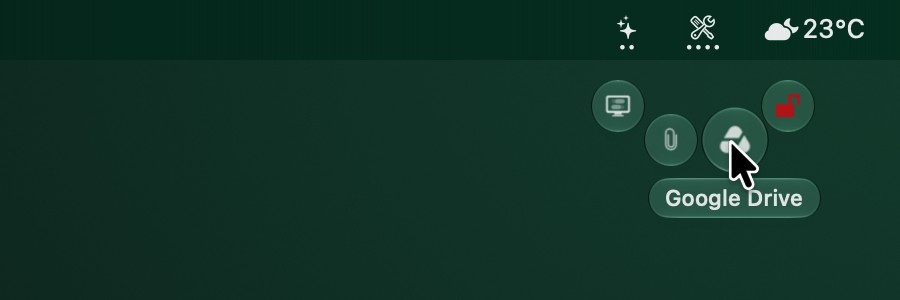
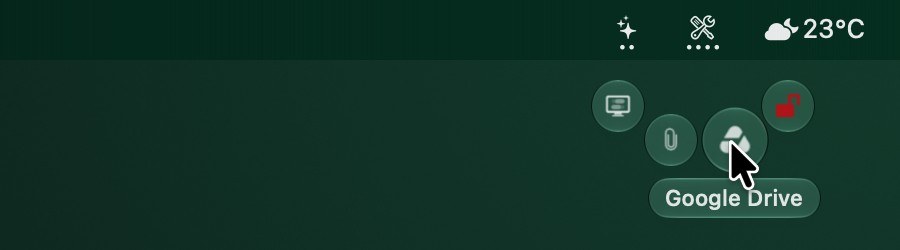
Website update

diff --git a/docs/vi/index.html b/docs/vi/index.html
@@ -188,8 +188,8 @@ summary{user-select:none}
 .stat b{display:block;margin-bottom:4px}@media (min-width:821px){.pain{display:grid;grid-row:span 3;grid-template-rows:subgrid;row-gap:0;align-content:start}.stats .pain .q{display:flex;flex-direction:column;justify-content:center}}.pain .q{display:block;font-size:17px;font-style:italic;color:var(--text);line-height:1.45;padding-bottom:14px;margin-bottom:14px;border-bottom:1px solid var(--line)}.pain b{color:var(--leaf);font-size:18px}.stat span{color:var(--sub);font-size:15px}
 .sechead{text-align:center;max-width:720px;margin:0 auto 48px}.sechead .lead{margin:0 auto}
 .wn{padding-top:8px}
-.wn-box{padding:36px;border:1px solid #2fd39f40;border-radius:20px;background:linear-gradient(135deg,#2fd39f14,#0c231cb3 60%)}
-.wn-t{display:grid;grid-template-columns:1.1fr 1fr;gap:16px 48px;align-items:end;margin-bottom:28px}
+.wn-box{display:grid;grid-template-columns:1fr 1.15fr;gap:48px;align-items:center;padding:36px;border:1px solid #2fd39f40;border-radius:20px;background:linear-gradient(135deg,#2fd39f14,#0c231cb3 60%)}
+.wn-t ul{margin-top:4px}
 .wn h2{font-size:clamp(26px,3.2vw,36px);line-height:1.15;letter-spacing:-.01em;margin:10px 0 12px;text-wrap:balance}.wn h2 span{color:var(--leaf)}
 .wn p{color:var(--sub);font-size:17px;margin:0 0 14px}
 .wn ul{list-style:none;padding:0;margin:0 0 16px}.wn li{display:flex;gap:10px;align-items:flex-start;color:var(--sub);padding:4px 0}.wn li svg{flex:none;margin-top:4px;color:var(--leaf)}
@@ -198,10 +198,10 @@ summary{user-select:none}
 .wn figure{margin:0 0 18px}.wn figure:last-child{margin:0}
 .wn figcaption{font-size:12px;font-weight:600;letter-spacing:.08em;text-transform:uppercase;color:var(--sub);margin:0 0 8px}
 .wn figure.after figcaption{color:var(--leaf)}
-.wn-i figure,.wn-i figure:last-child{max-width:560px;margin-left:auto}
+.wn-i figure{margin:0 0 16px}.wn-i figure:last-child{margin:0}
 .wn figure div{overflow:hidden;border-radius:12px;border:1px solid var(--line);box-shadow:0 20px 50px #0008}
 .wn figure img{display:block;width:100%;height:auto}
-@media (max-width:820px){.wn-box{padding:22px}.wn-t{grid-template-columns:1fr;gap:0}}
+@media (max-width:820px){.wn-box{padding:22px;grid-template-columns:1fr;gap:28px}}
 .fx{display:grid;grid-template-columns:1fr 1.25fr;gap:56px;align-items:center;padding:44px 0;border-top:1px solid #ffffff0d}
 .fx:first-of-type{border-top:0}
 .fx.flip .fx-t{order:2}
@@ -271,11 +271,11 @@ summary{user-select:none}
 
 <section id="moi" class="wn">
   <div class="wn-box">
-    <div class="wn-t"><div><span class="tag">Mới trong bản 0.6.0</span><h2>Gom icon, gọn menu</h2><p>Mintbar gom các icon trên menu bar vào nhóm. Cần app nào, bấm là thấy.</p></div><div><ul><li><svg viewBox="0 0 24 24" width="16" height="16" fill="none" stroke="currentColor" stroke-width="1.75" stroke-linecap="round" stroke-linejoin="round" aria-hidden="true"><path d="M20 6 9 17l-5-5"/></svg><span><b>Hết lo tai thỏ.</b> Gom bớt icon, menu bar lại đủ chỗ.</span></li><li><svg viewBox="0 0 24 24" width="16" height="16" fill="none" stroke="currentColor" stroke-width="1.75" stroke-linecap="round" stroke-linejoin="round" aria-hidden="true"><path d="M20 6 9 17l-5-5"/></svg><span><b>Bấm là mở.</b> Bấm icon nhóm, các app mở ra ngay dưới menu bar.</span></li><li><svg viewBox="0 0 24 24" width="16" height="16" fill="none" stroke="currentColor" stroke-width="1.75" stroke-linecap="round" stroke-linejoin="round" aria-hidden="true"><path d="M20 6 9 17l-5-5"/></svg><span><b>Nhóm theo việc.</b> Mỗi nhóm một tên, tìm app là thấy.</span></li></ul><div class="wn-links"><a href="mintbar-gon-thanh-menu-mac/">Cách dùng Mintbar <span class="arr r">→</span></a></div><p class="also">2 nhóm, mỗi nhóm 4 app. Bật thì macOS mới hỏi quyền.</p></div></div>
+    <div class="wn-t"><span class="tag">Mới trong bản 0.6.0</span><h2>Gom icon, gọn menu</h2><p>Mintbar gom các icon trên menu bar vào nhóm. Cần app nào, bấm là thấy.</p><ul><li><svg viewBox="0 0 24 24" width="16" height="16" fill="none" stroke="currentColor" stroke-width="1.75" stroke-linecap="round" stroke-linejoin="round" aria-hidden="true"><path d="M20 6 9 17l-5-5"/></svg><span><b>Hết lo tai thỏ.</b> Gom bớt icon, menu bar lại đủ chỗ.</span></li><li><svg viewBox="0 0 24 24" width="16" height="16" fill="none" stroke="currentColor" stroke-width="1.75" stroke-linecap="round" stroke-linejoin="round" aria-hidden="true"><path d="M20 6 9 17l-5-5"/></svg><span><b>Bấm là mở.</b> Bấm icon nhóm, các app mở ra ngay dưới menu bar.</span></li><li><svg viewBox="0 0 24 24" width="16" height="16" fill="none" stroke="currentColor" stroke-width="1.75" stroke-linecap="round" stroke-linejoin="round" aria-hidden="true"><path d="M20 6 9 17l-5-5"/></svg><span><b>Nhóm theo việc.</b> Mỗi nhóm một tên, tìm app là thấy.</span></li></ul><div class="wn-links"><a href="mintbar-gon-thanh-menu-mac/">Cách dùng Mintbar <span class="arr r">→</span></a></div><p class="also">2 nhóm, mỗi nhóm 4 app. Bật thì macOS mới hỏi quyền.</p></div>
     <div class="wn-i">
-      <figure><figcaption>Trước</figcaption><div><img src="../mintbar-before.jpg?v=dce254e8" alt="Menu bar trên Mac chật kín icon app trước khi dùng Mintbar" width="900" height="60" loading="lazy"></div></figure>
-      <figure class="after"><figcaption>Sau: gom vào hai nhóm</figcaption><div><img src="../mintbar-after.jpg?v=e5a27353" alt="Cùng menu bar khi bật Mintbar: các app nằm sau hai icon nhóm AI và Tools" width="900" height="60" loading="lazy"></div></figure>
-      <figure class="after fan"><figcaption>Bấm icon nhóm: app mở ra ngay bên dưới</figcaption><div><img src="../mintbar-fan.jpg?v=0e83377e" alt="Bấm nhóm Tools, bốn app mở ra ngay dưới menu bar, con trỏ đang chỉ vào Google Drive" width="900" height="300" loading="lazy"></div></figure>
+      <figure><figcaption>Trước</figcaption><div><img src="../mintbar-before.jpg?v=d3800ef0" alt="Menu bar trên Mac chật kín icon app trước khi dùng Mintbar" width="900" height="60" loading="lazy"></div></figure>
+      <figure class="after"><figcaption>Sau: gom vào hai nhóm</figcaption><div><img src="../mintbar-after.jpg?v=14f1bae5" alt="Cùng menu bar khi bật Mintbar: các app nằm sau hai icon nhóm AI và Tools" width="900" height="60" loading="lazy"></div></figure>
+      <figure class="after fan"><figcaption>Bấm icon nhóm: app mở ra ngay bên dưới</figcaption><div><img src="../mintbar-fan.jpg?v=bdbac061" alt="Bấm nhóm Tools, bốn app mở ra ngay dưới menu bar, con trỏ đang chỉ vào Google Drive" width="900" height="250" loading="lazy"></div></figure>
     </div>
   </div>
 </section>

diff --git a/docs/index.html b/docs/index.html
@@ -188,8 +188,8 @@ summary{user-select:none}
 .stat b{display:block;margin-bottom:4px}@media (min-width:821px){.pain{display:grid;grid-row:span 3;grid-template-rows:subgrid;row-gap:0;align-content:start}.stats .pain .q{display:flex;flex-direction:column;justify-content:center}}.pain .q{display:block;font-size:17px;font-style:italic;color:var(--text);line-height:1.45;padding-bottom:14px;margin-bottom:14px;border-bottom:1px solid var(--line)}.pain b{color:var(--leaf);font-size:18px}.stat span{color:var(--sub);font-size:15px}
 .sechead{text-align:center;max-width:720px;margin:0 auto 48px}.sechead .lead{margin:0 auto}
 .wn{padding-top:8px}
-.wn-box{padding:36px;border:1px solid #2fd39f40;border-radius:20px;background:linear-gradient(135deg,#2fd39f14,#0c231cb3 60%)}
-.wn-t{display:grid;grid-template-columns:1.1fr 1fr;gap:16px 48px;align-items:end;margin-bottom:28px}
+.wn-box{display:grid;grid-template-columns:1fr 1.15fr;gap:48px;align-items:center;padding:36px;border:1px solid #2fd39f40;border-radius:20px;background:linear-gradient(135deg,#2fd39f14,#0c231cb3 60%)}
+.wn-t ul{margin-top:4px}
 .wn h2{font-size:clamp(26px,3.2vw,36px);line-height:1.15;letter-spacing:-.01em;margin:10px 0 12px;text-wrap:balance}.wn h2 span{color:var(--leaf)}
 .wn p{color:var(--sub);font-size:17px;margin:0 0 14px}
 .wn ul{list-style:none;padding:0;margin:0 0 16px}.wn li{display:flex;gap:10px;align-items:flex-start;color:var(--sub);padding:4px 0}.wn li svg{flex:none;margin-top:4px;color:var(--leaf)}
@@ -198,10 +198,10 @@ summary{user-select:none}
 .wn figure{margin:0 0 18px}.wn figure:last-child{margin:0}
 .wn figcaption{font-size:12px;font-weight:600;letter-spacing:.08em;text-transform:uppercase;color:var(--sub);margin:0 0 8px}
 .wn figure.after figcaption{color:var(--leaf)}
-.wn-i figure,.wn-i figure:last-child{max-width:560px;margin-left:auto}
+.wn-i figure{margin:0 0 16px}.wn-i figure:last-child{margin:0}
 .wn figure div{overflow:hidden;border-radius:12px;border:1px solid var(--line);box-shadow:0 20px 50px #0008}
 .wn figure img{display:block;width:100%;height:auto}
-@media (max-width:820px){.wn-box{padding:22px}.wn-t{grid-template-columns:1fr;gap:0}}
+@media (max-width:820px){.wn-box{padding:22px;grid-template-columns:1fr;gap:28px}}
 .fx{display:grid;grid-template-columns:1fr 1.25fr;gap:56px;align-items:center;padding:44px 0;border-top:1px solid #ffffff0d}
 .fx:first-of-type{border-top:0}
 .fx.flip .fx-t{order:2}
@@ -271,11 +271,11 @@ summary{user-select:none}
 
 <section id="new" class="wn">
   <div class="wn-box">
-    <div class="wn-t"><div><span class="tag">New in 0.6.0</span><h2>Fewer icons. Same menus.</h2><p>Mintbar gathers your menu bar icons into groups. Need an app? One click and it’s there.</p></div><div><ul><li><svg viewBox="0 0 24 24" width="16" height="16" fill="none" stroke="currentColor" stroke-width="1.75" stroke-linecap="round" stroke-linejoin="round" aria-hidden="true"><path d="M20 6 9 17l-5-5"/></svg><span><b>Notch? No problem.</b> Group a few, and everything fits.</span></li><li><svg viewBox="0 0 24 24" width="16" height="16" fill="none" stroke="currentColor" stroke-width="1.75" stroke-linecap="round" stroke-linejoin="round" aria-hidden="true"><path d="M20 6 9 17l-5-5"/></svg><span><b>Click to open.</b> Click a group, its apps open right below.</span></li><li><svg viewBox="0 0 24 24" width="16" height="16" fill="none" stroke="currentColor" stroke-width="1.75" stroke-linecap="round" stroke-linejoin="round" aria-hidden="true"><path d="M20 6 9 17l-5-5"/></svg><span><b>Grouped by task.</b> Name each group. Find any app at a glance.</span></li></ul><div class="wn-links"><a href="mintbar-tidy-menu-bar-mac/">How Mintbar works <span class="arr r">→</span></a></div><p class="also">2 groups, 4 apps each. macOS asks for permission only when you turn it on.</p></div></div>
+    <div class="wn-t"><span class="tag">New in 0.6.0</span><h2>Fewer icons. Same menus.</h2><p>Mintbar gathers your menu bar icons into groups. Need an app? One click and it’s there.</p><ul><li><svg viewBox="0 0 24 24" width="16" height="16" fill="none" stroke="currentColor" stroke-width="1.75" stroke-linecap="round" stroke-linejoin="round" aria-hidden="true"><path d="M20 6 9 17l-5-5"/></svg><span><b>Notch? No problem.</b> Group a few, and everything fits.</span></li><li><svg viewBox="0 0 24 24" width="16" height="16" fill="none" stroke="currentColor" stroke-width="1.75" stroke-linecap="round" stroke-linejoin="round" aria-hidden="true"><path d="M20 6 9 17l-5-5"/></svg><span><b>Click to open.</b> Click a group, its apps open right below.</span></li><li><svg viewBox="0 0 24 24" width="16" height="16" fill="none" stroke="currentColor" stroke-width="1.75" stroke-linecap="round" stroke-linejoin="round" aria-hidden="true"><path d="M20 6 9 17l-5-5"/></svg><span><b>Grouped by task.</b> Name each group. Find any app at a glance.</span></li></ul><div class="wn-links"><a href="mintbar-tidy-menu-bar-mac/">How Mintbar works <span class="arr r">→</span></a></div><p class="also">2 groups, 4 apps each. macOS asks for permission only when you turn it on.</p></div>
     <div class="wn-i">
-      <figure><figcaption>Before</figcaption><div><img src="mintbar-before.jpg?v=dce254e8" alt="Mac menu bar crowded with app icons before Mintbar" width="900" height="60" loading="lazy"></div></figure>
-      <figure class="after"><figcaption>After: gathered into two groups</figcaption><div><img src="mintbar-after.jpg?v=e5a27353" alt="The same menu bar with Mintbar on: the apps sit behind two group icons, AI and Tools" width="900" height="60" loading="lazy"></div></figure>
-      <figure class="after fan"><figcaption>Click a group: its apps open right below</figcaption><div><img src="mintbar-fan.jpg?v=0e83377e" alt="Clicking the Tools group opens its four apps right below the menu bar, with the pointer on Google Drive" width="900" height="300" loading="lazy"></div></figure>
+      <figure><figcaption>Before</figcaption><div><img src="mintbar-before.jpg?v=d3800ef0" alt="Mac menu bar crowded with app icons before Mintbar" width="900" height="60" loading="lazy"></div></figure>
+      <figure class="after"><figcaption>After: gathered into two groups</figcaption><div><img src="mintbar-after.jpg?v=14f1bae5" alt="The same menu bar with Mintbar on: the apps sit behind two group icons, AI and Tools" width="900" height="60" loading="lazy"></div></figure>
+      <figure class="after fan"><figcaption>Click a group: its apps open right below</figcaption><div><img src="mintbar-fan.jpg?v=bdbac061" alt="Clicking the Tools group opens its four apps right below the menu bar, with the pointer on Google Drive" width="900" height="250" loading="lazy"></div></figure>
     </div>
   </div>
 </section>

diff --git a/tools/site.py b/tools/site.py
@@ -145,8 +145,8 @@ HOME_CSS = """
 .stat b{display:block;margin-bottom:4px}@media (min-width:821px){.pain{display:grid;grid-row:span 3;grid-template-rows:subgrid;row-gap:0;align-content:start}.stats .pain .q{display:flex;flex-direction:column;justify-content:center}}.pain .q{display:block;font-size:17px;font-style:italic;color:var(--text);line-height:1.45;padding-bottom:14px;margin-bottom:14px;border-bottom:1px solid var(--line)}.pain b{color:var(--leaf);font-size:18px}.stat span{color:var(--sub);font-size:15px}
 .sechead{text-align:center;max-width:720px;margin:0 auto 48px}.sechead .lead{margin:0 auto}
 .wn{padding-top:8px}
-.wn-box{padding:36px;border:1px solid #2fd39f40;border-radius:20px;background:linear-gradient(135deg,#2fd39f14,#0c231cb3 60%)}
-.wn-t{display:grid;grid-template-columns:1.1fr 1fr;gap:16px 48px;align-items:end;margin-bottom:28px}
+.wn-box{display:grid;grid-template-columns:1fr 1.15fr;gap:48px;align-items:center;padding:36px;border:1px solid #2fd39f40;border-radius:20px;background:linear-gradient(135deg,#2fd39f14,#0c231cb3 60%)}
+.wn-t ul{margin-top:4px}
 .wn h2{font-size:clamp(26px,3.2vw,36px);line-height:1.15;letter-spacing:-.01em;margin:10px 0 12px;text-wrap:balance}.wn h2 span{color:var(--leaf)}
 .wn p{color:var(--sub);font-size:17px;margin:0 0 14px}
 .wn ul{list-style:none;padding:0;margin:0 0 16px}.wn li{display:flex;gap:10px;align-items:flex-start;color:var(--sub);padding:4px 0}.wn li svg{flex:none;margin-top:4px;color:var(--leaf)}
@@ -155,10 +155,10 @@ HOME_CSS = """
 .wn figure{margin:0 0 18px}.wn figure:last-child{margin:0}
 .wn figcaption{font-size:12px;font-weight:600;letter-spacing:.08em;text-transform:uppercase;color:var(--sub);margin:0 0 8px}
 .wn figure.after figcaption{color:var(--leaf)}
-.wn-i figure,.wn-i figure:last-child{max-width:560px;margin-left:auto}
+.wn-i figure{margin:0 0 16px}.wn-i figure:last-child{margin:0}
 .wn figure div{overflow:hidden;border-radius:12px;border:1px solid var(--line);box-shadow:0 20px 50px #0008}
 .wn figure img{display:block;width:100%;height:auto}
-@media (max-width:820px){.wn-box{padding:22px}.wn-t{grid-template-columns:1fr;gap:0}}
+@media (max-width:820px){.wn-box{padding:22px;grid-template-columns:1fr;gap:28px}}
 .fx{display:grid;grid-template-columns:1fr 1.25fr;gap:56px;align-items:center;padding:44px 0;border-top:1px solid #ffffff0d}
 .fx:first-of-type{border-top:0}
 .fx.flip .fx-t{order:2}
@@ -584,11 +584,11 @@ gtag('js',new Date());gtag('config','{GA_ID}');
 
 <section id="{t["new_id"]}" class="wn">
   <div class="wn-box">
-    <div class="wn-t"><div><span class="tag">{t["new_tag"]}</span><h2>{t["new_h"]}</h2><p>{t["new_p"]}</p></div><div><ul>{wn_li}</ul><div class="wn-links">{wn_links}</div><p class="also">{t["new_also"]}</p></div></div>
+    <div class="wn-t"><span class="tag">{t["new_tag"]}</span><h2>{t["new_h"]}</h2><p>{t["new_p"]}</p><ul>{wn_li}</ul><div class="wn-links">{wn_links}</div><p class="also">{t["new_also"]}</p></div>
     <div class="wn-i">
       <figure><figcaption>{t["new_cap"][0]}</figcaption><div><img src="{img}mintbar-before.jpg" alt="{t["new_alt"][0]}" width="900" height="60" loading="lazy"></div></figure>
       <figure class="after"><figcaption>{t["new_cap"][1]}</figcaption><div><img src="{img}mintbar-after.jpg" alt="{t["new_alt"][1]}" width="900" height="60" loading="lazy"></div></figure>
-      <figure class="after fan"><figcaption>{t["new_cap3"]}</figcaption><div><img src="{img}mintbar-fan.jpg" alt="{t["new_alt3"]}" width="900" height="300" loading="lazy"></div></figure>
+      <figure class="after fan"><figcaption>{t["new_cap3"]}</figcaption><div><img src="{img}mintbar-fan.jpg" alt="{t["new_alt3"]}" width="900" height="250" loading="lazy"></div></figure>
     </div>
   </div>
 </section>
